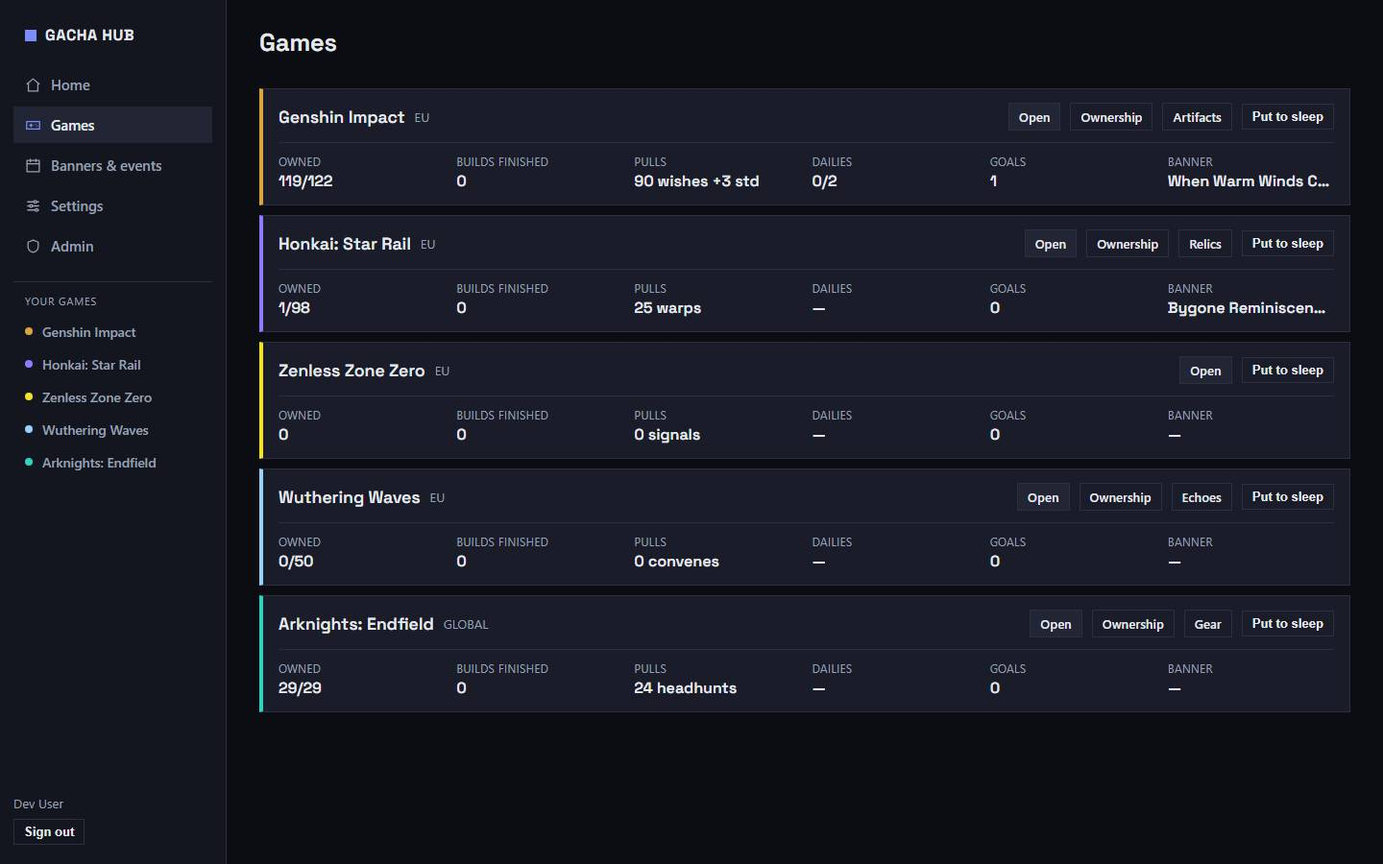
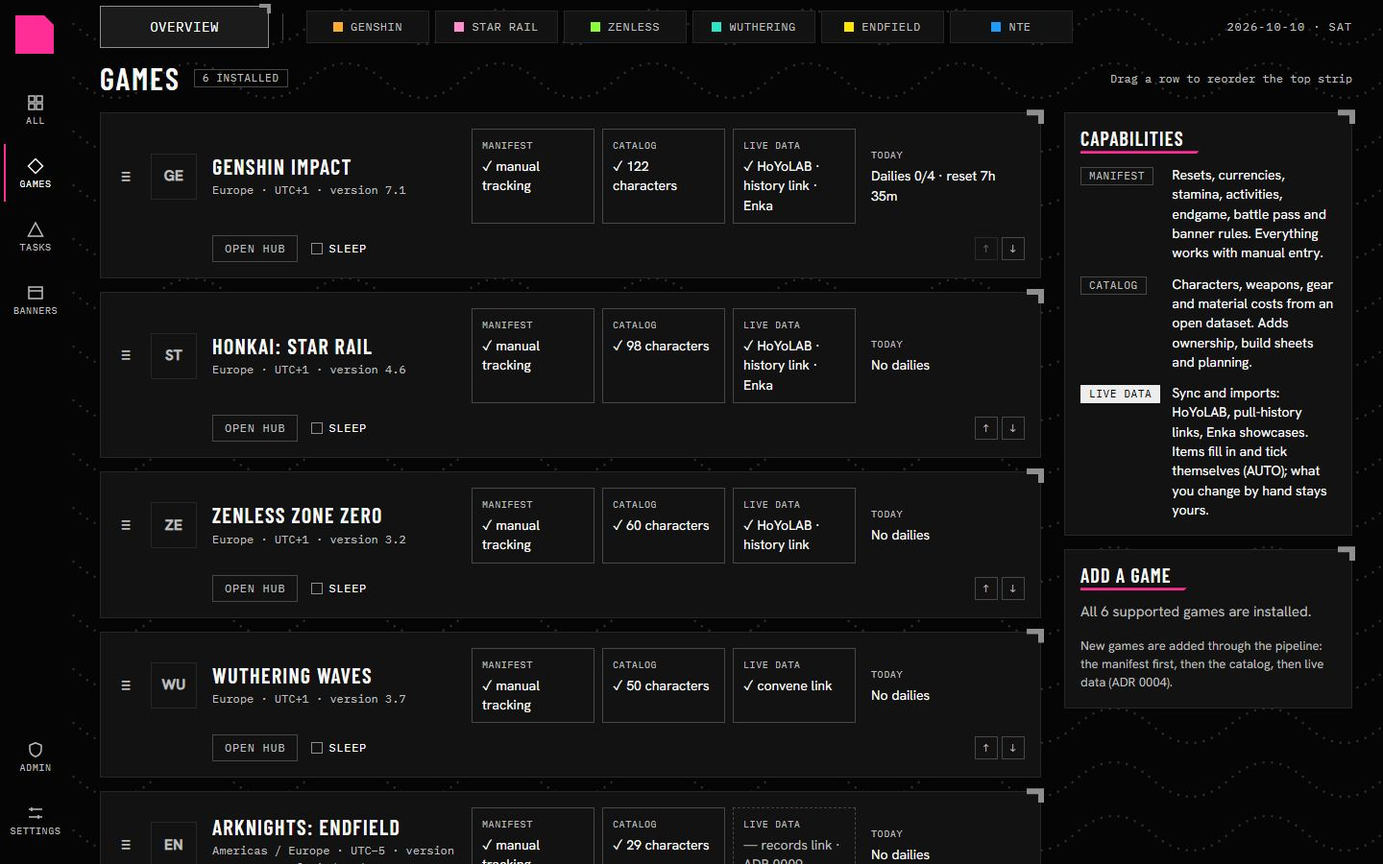
docs(guide): the screen chapter for today's app (#190)
PROJECT-GUIDE §7–8 rewritten for the current screens, with fifteen new screenshots taken with outside images blocked.

Meme: https://github.com/adam-riffi/gacha-hub/pull/190#issuecomment-6101354604

diff --git a/docs/PROJECT-GUIDE.md b/docs/PROJECT-GUIDE.md
@@ -251,172 +251,248 @@ A `PullEntry` is `{bannerType, count, fiveStar?, featured?}`. Pity is the count 
 flowchart TB
   L["Sign-in<br/>/"] --> H["Home<br/>/"]
   H --- G["Games<br/>/library"]
-  H --- C["Banners & events<br/>/timeline"]
+  H --- T["Tasks and reminders<br/>/tasks"]
+  H --- C["Banners and events<br/>/timeline"]
   H --- S["Settings<br/>/settings"]
   H --- AD["Admin<br/>/admin (admins only)"]
-  G --> O["Game page · Overview<br/>/games/:id"]
-  O --- OW["Ownership<br/>/games/:id/ownership"]
-  O --- EQ["Equipment<br/>/games/:id/equipment"]
-  O --- GR["Artifacts / Relics / Echoes / Gear<br/>/games/:id/gear"]
-  O --- MA["Materials<br/>/games/:id/materials"]
-  O --- PU["Pulls<br/>/games/:id/pulls"]
-  O --> CH["Character sheet<br/>/characters/:id"]
-  OW --> CH
+  G --> A["Game hub · Activities<br/>/games/:id"]
+  A --- EG["Endgame<br/>/games/:id/endgame"]
+  A --- PU["Pulls<br/>/games/:id/pulls"]
+  A --- CH["Characters<br/>/games/:id/characters"]
+  A --- GR["Artifacts / Relics / Drive discs / Echoes<br/>/games/:id/gear"]
+  A --- PL["Planner<br/>/games/:id/planner"]
+  A --- PR["Profile<br/>/games/:id/profile"]
+  CH --> SH["Character sheet<br/>/characters/:id"]
 ```
 
-The left sidebar is on every signed-in page: Home, Games, Banners & events, Settings, Admin (hidden from non-admins), then one link per installed game. Which game tabs appear depends on the game (§9): no catalog means only Overview and Pulls; no `pullBanners` means no Pulls tab.
+The rail on the left is on every signed-in page: All (Home), Games, Tasks, Banners, then Admin (admins only) and Settings. The strip across the top scopes Home to one game or all of them, in the order set on the Games page.
+
+The game hub's tabs depend on the game (§9):
+- Pulls needs pull rules.
+- Gear and Planner need a catalog with gear and costs, so Endfield and NTE have neither.
+
+The old routes `/games/:id/overview` and `/games/:id/equipment` redirect to Profile and Characters. `/games/:id/ownership` and `/games/:id/materials` still answer but are no longer tabs.
 
 ## 8. Screen by screen
 
-Screenshots are from the local dev build (dev user, SQLite) on 2026-10-08, 1440×900. Several show test data typed during development (builds named "ok", an "Example Banner").
+The screenshots come from the local dev build (dev user, SQLite) on 2026-10-10, at 1440×900. Images from outside the app are blocked, so cards show their placeholders and no game art sits in the repository (ADR 0006).
 
 ### 8.1 Sign-in
 
-![Sign-in](screens/01-login.jpg)
+![Sign-in](screens/01-sign-in.jpg)
 
-**For:** getting in. One card: the product line ("Track currencies, dailies, and character builds across every gacha you play — and get nudged on Discord before reset") and one button. In production the button is "Sign in with Discord" (OAuth); locally it is "Continue as Dev User" when `DEV_LOGIN_ENABLED=true`. Whitelisting is by Discord account; there is no sign-up.
+**For:** getting in. In production the button is "Sign in with Discord" (OAuth, whitelisted accounts only). Locally, "Continue as Dev User" appears when `DEV_LOGIN_ENABLED=true`. There is no sign-up.
 
 ### 8.2 Home
 
 ![Home](screens/02-home.jpg)
 
-**For:** the one-screen answer to "what should I do today, across all my games?". It is the most important screen.
+**For:** "what should I do today, across my games?" (WIREFRAMES.md H1; VISUAL-DESIGN.md §10). Scope it to one game with the top strip. It holds:
+- **Daily and Weekly rings:** recurring items done this reset.
+- **Goals:** a ring.
+- **Goal types:** character, gear, weapons, gameplay.
+- **Backlog:** a 10-day line.
+- **Pull history:** premium currency gained and spent.
+- **Dailies & weeklies:** one carousel card per game.
+- **Battle pass:** level and time left.
+- **The heat map:** dailies over the last 26 weeks.
+- **Banners now:** a carousel with featured art and "owned" marks.
+- **Pulls:** limited pulls per game, with each banner's pity.
+- **Stamina:** "full at" times.
+- **Endgame · next resets.**
+- **Expiring soon.**
 
-- **KPI strip** (choose which with "Customize"): pulls available across games, dailies done this reset, characters owned (% of catalog), builds finished (good or perfect), goal materials farmed.
-- **Banners now:** one card per running banner across games, with the featured units' art; a green "owned" tag on units you already have. Helps decide whether a banner is worth pulls.
-- **Pulls (right):** limited pulls per game, converted from premium currency plus tickets (Genshin: Primogems ÷ 160 + Intertwined Fates; standard tickets shown apart as "+3 std"). Under each game with a pull log: current pity per banner and "guaranteed" when the next 5★ is the featured one.
-- **Coming up:** banners and events ending soonest, with countdowns; links to the calendar.
-- **Wallet:** every currency per game, collapsed by game.
-- **Today:** per game, the time to the next daily reset, the regenerating stamina bar (Genshin resin shows "full — spend it"), and the unticked dailies as chips you click to tick.
-- **Tasks:** the task board, one column per game: goal tasks ("Farm Venti" with a progress counter, "Farm Faded Theater" with artifact-piece subtasks), filter, Dailies and Backlog toggles, "+ New task".
-
-Data: `GET /api/dashboard` (games, currencies, pulls and pity, banners now, coming up, goals) and `GET /api/tasks`.
+Data: `GET /api/dashboard` and `GET /api/tasks`.
 
 ### 8.3 Games (library)
 
 ![Games](screens/03-games.jpg)
 
-**For:** managing which games you track, and a compact status line per game. One long card per installed game, coloured by the game's accent: region, owned/catalog size, builds finished, pulls (in the game's own word: wishes, warps, signals, convenes, headhunts), dailies done, goals, the current banner. Buttons: Open, Ownership, the game's gear page (Artifacts, Relics, Echoes, Gear) and **Put to sleep** (a sleeping game is hidden from Home and sends no reminders, without losing data; it sorts to the bottom here). "+ Add game" on Home installs a game; installing seeds its default dailies.
+**For:** which games you track, and what each can do (A2). One row per installed game, in the top strip's order: drag a row, or use its arrows, to reorder. Each row holds:
+- server, offset and version;
+- the capability cells: Manifest, Catalog (its size, or why there is none), and Live data (HoYoLAB, history links, Enka, the convene or records link; or why there is none);
+- today's dailies and the reset;
+- Open hub, and Sleep. A sleeping game leaves Home and gets no reminders, without losing data.
 
-### 8.4 Banners & events (calendar)
+The side panel explains the capabilities and lists games to add.
 
-![Calendar](screens/04-calendar.jpg)
+### 8.4 Tasks and reminders
 
-**For:** seeing what is running and what ends soon, across games, on one timeline. A Gantt-style view of four weeks around today (the yellow line), grouped by game; banners are solid bars, events lighter ones, each labelled with its countdown. Banner rows show the featured units' portraits (ringed when owned). Game chips filter; "‹ 2 weeks / Today / 2 weeks ›" pages, including back into ended banners (F7). Hover a row for exact dates. Genshin and HSR rows come from the hourly official-feed import; other games only have what an admin uploads.
+![Tasks](screens/04-tasks.jpg)
 
-Data: `GET /api/timeline?from&to` (window query; banners carry their featured details).
+**For:** what to farm today, every goal, and the reminders (T1).
+- **Farm today:** the game day, and what can be farmed in it (talent books on their weekdays, weekly tasks left).
+- **Goals:**
+  - from Plan farming, from an event reward (with its stages and what it gives when done), or by hand;
+  - each with its progress, priority, Notify and Expand. Expand lists the steps, marked TODAY where farming is possible.
+  - Show backlog adds the completionist goals generated on Profile.
+- **Reminders:** the global rules (before reset, a daily digest, stamina full, endgame, passes, domains), quiet hours, and a preview of the DM with "Send a test DM".
 
-### 8.5 Game page: Overview
+### 8.5 Banners and events (calendar)
 
-![Genshin overview](screens/05-genshin-overview.jpg)
+![Calendar](screens/05-calendar.jpg)
 
-**For:** "what should I do in this game right now?". Tabs at the top move between the game's screens.
+**For:** what runs and what ends soon, across games (C1). It is a timeline of weeks around today, a row per game:
+- banners are solid bars and events lighter ones;
+- the selected item opens beside it: art, dates, rewards and the goal they become;
+- filters cover games, kinds, and "Only what I wishlisted";
+- paging goes back into ended banners.
 
-- **Header:** region picker (sets reset times), owned count, **Restore default tasks**, **Generate backlog** (a "Farm X (max)" goal tree per owned character, everything needed to max it, kept in the Backlog out of the active list), **Uninstall**.
-- **Happening now:** running banners with featured art, then events with time left; "+N more" expands; links to the calendar.
-- **To-do:** dailies as chips, time to reset, active goals.
-- **Domains today** (Genshin only, §9): the talent and weapon domains open on today's *game day* (the server weekday shifted by the 04:00 reset), each with portraits of the owned characters who level from it. "Show all 8" expands.
-- **Currencies:** every currency with its cap; premium currency shows its pull equivalent ("≈ 78 wishes").
-- **Builds:** your builds; "Pick an owned character" + optional build name + "+ Build" adds one (catalog games). Games without a catalog (ZZZ) take a free-text name.
-- **Discord reminders:** on/off; "before daily reset" N minutes; "every day at" chosen times in your time zone; what to include: currencies, dailies left, domains open today (the last only where the game has domains).
-- **Teams:** saved party presets of the game's party size (4 for Genshin, HSR and Endfield, 3 for ZZZ and WuWa).
+Genshin, Star Rail and ZZZ rows come from the hourly official feed; the others come from admin uploads.
 
-The ZZZ overview shows the reduced version for a game without a catalog:
+### 8.6 Game hub · Activities
 
-![ZZZ overview](screens/14-zzz-overview.jpg)
+![Activities](screens/06-activities.jpg)
 
-### 8.6 Ownership
+**For:** a game's day (G1). The hub's header, on every tab, shows:
+- server and UID (masked);
+- account and world level;
+- daily and weekly resets;
+- the version's end;
+- the Edit button.
 
-![Genshin ownership](screens/06-genshin-ownership.jpg)
+Activities holds:
+- **stamina,** with its reserve and "remind me when full";
+- **a card per cadence** (daily, weekly, monthly shops and passes), each with its reset countdown and items to tick or add;
+- **this cycle's endgame** results;
+- **the version:** battle pass and events.
 
-**For:** the fastest possible "which characters (and weapons) do I have?" entry, which drives everything else (Home's "owned" tags, Domains today, Generate backlog). A portrait grid of the whole catalog; click a portrait to toggle owned (check mark, full colour; unowned is greyed). Filters: search, rarity, element, owned/unowned; **Own all shown** and **Clear shown** for bulk entry. Characters/Weapons toggle. Each card links to its build ("Build →") or creates one ("+ Build").
+### 8.7 Endgame
 
-HSR uses the same screen with Yatta art:
+![Endgame](screens/07-endgame.jpg)
 
-![HSR ownership](screens/13-hsr-ownership.jpg)
+**For:** each endgame mode's cycle (G2): this cycle's result (stars, acts, difficulty…) and reward, the next reset, and the history of past cycles. Results come from the HoYoLAB chronicle when linked, or are typed in. Saved teams sit here too.
 
-### 8.7 Equipment
+### 8.8 Pulls
 
-![Genshin equipment](screens/07-genshin-equipment.jpg)
+![Pulls](screens/08-pulls.jpg)
 
-**For:** browsing the weapon catalog (and gear sets) to mark owned weapons and to plan farming for one. Each card shows rarity, weapon type and max level; **Owned** toggles ownership; **Farm / pre-farm** opens the plan for that weapon's ascension materials, so you can pre-farm before a banner. Tabs: Weapons (255) and Gear sets (63).
+**For:** how close the next top pull is, and whether it will be the featured one (G3).
+- **The top cards:**
+  - "Pulls available" converts premium currency and tickets into pulls. Standard and weapon-only tickets are kept apart.
+  - "By the end of the version" forecasts income.
+- **One card per event banner:**
+  - the 50/50 or guaranteed status;
+  - pity against hard pity;
+  - the odds (estimates);
+  - the curve;
+  - your chance with what you have;
+  - the actions: +1, +10, Log a 5★ (6★ in Endfield), Set pity, Undo.
+- **The savings planner** orders the featured targets, worst case or on average.
+- **The history** lists every top pull with its pity.
 
-### 8.8 Gear: Artifacts (Genshin), Relics (HSR), Echoes (WuWa), Gear (Endfield)
+Imports come from Settings.
 
-Every catalog game has a set browser. Genshin has two more modes, because artifacts are the main grind there.
+### 8.9 Characters
 
-**Sets:** every set with its 2-piece and 4-piece bonus, rarity and the domain it drops from; a "used by my builds" filter, and green tags naming which of your builds wear it.
+![Characters](screens/09-characters.jpg)
 
-![Artifact sets](screens/08a-genshin-artifact-sets.jpg)
+**For:** the roster (G4). The filters are element, weapon, rarity, owned, build status, and sort. Characters/Weapons switches between them, and Splash/Compact changes the view.
+- **A splash card shows:**
+  - rarity and element;
+  - the dupe count (C, E, M, S or A in each game's words);
+  - level and talents;
+  - three KPIs chosen by the build's role;
+  - build status, and Build → to the sheet.
+- **Own** and **Wishlist** sit on unowned cards. The wishlist feeds the calendar filter and the savings planner.
 
-**Inventory (Genshin):** the bag of pieces you own: set, slot, main stat, level, substats, crit value (CV); filter by set, slot, bag or equipped; sorted by CV. **Equip on…** puts a bag piece on a build (swapping out what was there); **Unequip** returns it to the bag. Only unequipped pieces live in `GearPiece`; equipped ones live in the build document.
+### 8.10 Character sheet
 
-![Artifact inventory](screens/08b-genshin-artifact-inventory.jpg)
+![Character sheet](screens/10-character-sheet.jpg)
 
-**Plan (Genshin):** groups the farming targets set on each build (4-piece set plus wanted sands, goblet and circlet main stats) by the domain that drops them, shows which wanted pieces you already have (✓) or still need (✗), and **Update task** turns that into a goal task with one subtask per missing piece.
+**For:** one build (G5).
+- **Splash art**, which you can change with Change art.
+- **The KPI tiles:**
+  - each with its target: the build's own, or the game's default, marked "(default)";
+  - the Role picker;
+  - "Make these the game's defaults".
+- **Character:** level, ascension, dupes.
+- **Talents,** with their names, now → target.
+- **Weapon,** picked from the catalog by type.
+- **Combat stats.**
+- **The gear block** in the game's shape:
+  - 5 artifacts, 4 relics + 2 planar ornaments, 6 drive discs, 5 echoes under cost 12, 4 gear + an essence, the Console;
+  - main stats per slot, crit value, and pieces flagged FARM.
+- **Plan farming:** materials have and need, then the goal.
+- **Used in:** the saved teams that hold the character.
 
-![Artifact plan](screens/08c-genshin-artifact-plan.jpg)
+Values from a sync are marked AUTO; what you change stays yours.
 
-### 8.9 Materials
+### 8.11 Gear (Artifacts, Relics, Drive discs, Echoes)
 
-![Materials](screens/09-genshin-materials.jpg)
+![Gear](screens/11-gear.jpg)
 
-**For:** entering what you have, so goals know what is still missing. Grouped by category (Common currency, Local specialty per region, talent books, boss drops…), each row has **Have** (editable), **Needed** (from your goal tasks), **Missing**, and **Days** (the weekdays it can be farmed; "any" when always). "Needed only" hides what no goal uses. Editing "have" here is the same write as ticking progress on a "Farm X" task.
+**For:** set pieces (G6).
+- **Genshin** opens on the artifact inventory: pieces by crit value, add, equip, storage. It also has Sets, and a farming plan for a set and its main stats.
+- **The other games** show their sets, which builds wear them, and Farm.
 
-### 8.10 Pulls
+### 8.12 Planner
 
-![Pulls](screens/10-genshin-pulls.jpg)
+![Planner](screens/12-planner.jpg)
 
-**For:** knowing how close the next 5★ is and whether it is guaranteed to be the featured one. One card per banner type (Genshin: Character event wish 90, Weapon event wish 80, Standard wish 90). Each shows pity / hard pity, a bar, the plain-language outlook ("68 to a certain 5★, and it will be the featured one"), **+1**, **+10** (a ten-pull without a 5★), **Log a 5★** (who, and whether it was the featured unit), **Set pity** (start mid-pity) and **Undo**. The 5★ history lists who dropped at which pity and whether the 50/50 was lost. The Pulls tab exists for Genshin, HSR, ZZZ and WuWa (Endfield has no pull rules yet).
+**For:** what to farm (G7):
+- **Goals**, each with its steps;
+- **Materials** for the goal or for all goals, with have, need and missing;
+- **Farm today**, grouped by domain, where weekdays matter (Genshin).
 
-### 8.11 Character sheet
+Stock edits here are the source of truth for every goal's progress.
 
-**For:** recording a build and planning what it still needs. Every game has its own sheet, because builds differ in kind, not just in labels (§9). Common frame: Back, the build name and game tag, a status (Unbuilt, Building, Good, Perfect; Good and Perfect count as "builds finished"), Save and Delete.
+### 8.13 Profile
 
-**Genshin** (the reference sheet, catalog-backed):
+![Profile](screens/13-profile.jpg)
 
-![Genshin character](screens/11-genshin-character.jpg)
+**For:** the account (G8).
+- **Account:** server, UID, levels.
+- **Wallet:** every currency.
+- **Passes:** battle pass and 30-day pass.
+- **Long-term progress.**
+- **This game's reminders** and the finer reminder options.
+- **Tools:** restore the default tasks; generate the completionist backlog.
+- **Status.**
 
-- Portrait card with art (Enka fallback, or an uploaded image via "Change art"), rarity, element, weapon type, level.
-- Identity: build name, level, element (fixed from the catalog), constellation C0–C6 as icons.
-- Weapon (filtered to the character's weapon type), level, refinement.
-- Talents: Normal Attack, Elemental Skill, Elemental Burst with their icons.
-- Artifacts: five slots, each with set, main stat (only the main stats that slot can roll), level and substats; a **farming target** (4-piece set and wanted sands, goblet and circlet main stats) that the Artifacts → Plan mode reads.
-- Crit summary: CRIT Rate, CRIT DMG and the crit ratio; combat stats (HP, ATK, DEF, crit, EM, ER).
-- **Plan farming:** level cap from → to and talent levels from → to; **Preview** lists the materials, **Generate tasks** creates the goal (see §6). "View on Home" jumps to the board.
-- Reference: constellation and talent text (empty until the catalog import includes it).
+### 8.14 Settings
 
-**HSR** (plain form): Light Cone (name, level, superimposition), six relic slots (head, hands, body, feet, planar sphere, link rope), traces, eidolon, path, element, stats. The build name in the screenshot predates the HTML-stripping fix in #21.
+![Settings](screens/14-settings.jpg)
 
-![HSR character](screens/12-hsr-character.jpg)
+**For:** links, imports, notifications and your data (S1).
+- **Linked accounts:**
+  - HoYoLAB, read-only: notes every 30 minutes, the chronicle and roster on Sync now;
+  - Enka showcases by UID for Genshin, Star Rail and ZZZ;
+  - the Endfield, Wuthering Waves and NTE cards, which say what each allows.
+- **Pull history:** a row per game:
+  - paste the history, convene or records link (used once, never stored);
+  - UIGF files in and out;
+  - the last import.
+- **Notifications:** Discord DMs, quiet hours, digest.
+- **Account and data:** Download my data (every table you entered), and delete the account.
 
-**Endfield** (plain form): Weapon & Essence (an essence attaches to the weapon), four gear slots, combat skill and ultimate, class, potential.
+### 8.15 Admin
 
-![Endfield character](screens/12-endfield-character.jpg)
-
-**ZZZ** (free text, no catalog): W-Engine, drive discs, skills (basic, special, chain…), mindscape. **WuWa**: weapon, echoes (with cost, main stat, sonata set), forte (basic attack, resonance skill, forte circuit, liberation, intro skill), resonance chain.
-
-### 8.12 Settings
-
-![Settings](screens/15-settings.jpg)
-
-Account (username, Discord id, sign out); **Your data → Download my data** (one JSON file with every game, currency, build, ownership, material, gear piece, team, pull, task and reminder you entered; nothing of other users, no secrets); **Discord bot** (how to use `/status`, `/update`, `/done` and reminders; the dev user cannot link the bot).
-
-### 8.13 Admin
-
-![Admin](screens/16-admin.jpg)
+![Admin](screens/15-admin.jpg)
 
 **For:** keeping banners and events correct, for admins only (`ADMIN_DISCORD_IDS`).
 
 - **Import official feed** for the selected game (Genshin, HSR, ZZZ; also runs hourly from the cron).
 - **Seed sample data** (two sample banners and events, to preview the UI; delete them in production once the feed runs).
-- **Upload payload:** paste JSON (kind banners or events, a game, items), **Example** fills a template, **Load current** loads what is live for editing, **Schema** shows the JSON schema, **Validate & apply** upserts by key with precise errors (unknown catalog ids, duplicate keys, field issues).
-- **Current banners/events** with Delete; feed rows have `hoyo-…` keys.
-- **Audit log:** every admin write with actor, action and target.
+- **Upload payload:**
+  - paste JSON: banners or events (with their effects, ADR 0008), a game and the items;
+  - **Example** fills a template, **Load current** loads what is live, and **Schema** shows the JSON schema;
+  - **Validate & apply** upserts by key, with precise errors.
+- **Current banners and events**, with Delete. Feed rows have `hoyo-…` keys.
+- **Audit log:** every admin write, with actor, action and target.
 
-### 8.14 Discord bot (no screen)
+### 8.16 Discord bot (no screen)
 
-Slash commands through HTTP interactions (`POST /api/discord/interactions`, signature-checked): `/status`, `/update` (a currency), `/done` (tick a daily), `/currency`, `/own`, `/build`, `/goal`, `/farm` (materials you still need that are farmable today), `/banner`, `/events`, plus Genshin's `/resin`. Commands are registered with `npm run discord:register -w @gacha/server` once the bot variables are set. The same account links through Discord OAuth, so commands act on the signed-in user's data.
+Slash commands arrive through HTTP interactions (`POST /api/discord/interactions`, signature-checked):
+- `/status`;
+- `/update` (a currency) and `/currency`;
+- `/done` (tick a daily);
+- `/own`, `/build` and `/goal`;
+- `/farm`, the materials you still need that are farmable today;
+- `/banner` and `/events`;
+- Genshin's `/resin`.
+
+Commands are registered with `npm run discord:register -w @gacha/server` once the bot variables are set.
 
 ## 9. Game-specific features
 

diff --git a/docs/AGENT_LOG.md b/docs/AGENT_LOG.md
@@ -14,6 +14,12 @@ Entry format:
 
 ---
 
+## 2026-10-10 · claude · stack/docs/05-screens · #190
+- Done: PROJECT-GUIDE §7 (screen map) and §8 (screen by screen) describe today's app: Home, Games, Tasks and reminders, the calendar, the game hub's tabs (Activities, Endgame, Pulls, Characters, gear, Planner, Profile), the character sheet, Settings, Admin and the bot. The retired Overview, Ownership and Equipment pages are gone from the chapter. Fifteen new screenshots at 1440×900 replace the seventeen from 2026-10-08. They were taken with every image from outside the app blocked, so the cards show placeholders and no game art is committed (ADR 0006).
+- Tests: docs only; every image the guide names exists.
+- Scope/decisions: two stale texts on Profile ("(F11)") are fixed in their own PR.
+- Next: Profile's stale texts, then the sheets' unverified values.
+
 ## 2026-10-10 · claude · stack/vercel/01-function-trace · #105
 - Done: #105 rebased onto `main` (its four code commits replayed; the old log and handoff commit dropped). The Vercel function ships only `api/`, `dist-server/` and `node_modules/`, not the whole repository. `uploads.ts` no longer gives the tracer a path to expand, and `excludeFiles` now leaves out `prisma/**`, any `.env*` and `.claude/**`: the config's `.env` lookup and the `prisma/` walk would otherwise pick up a local secrets file and old worktrees.
 - Tests: `serverless.trace.test.ts`, written first in #105, traces `api/index.mjs` with `@vercel/nft` as Vercel does. It failed on the rebased base with `.env` and a worktree's schema, and passes with the wider exclude. `npm run check` passes: 531 tests and 40 journeys.
@@ -285,9 +291,3 @@ Entry format:
 - Tests: written first: `auth/guards.integration.test.ts` (an admin upload by a non-admin writes no banner or audit row; nothing without a session), waiting a moment after the answer since the stray handler wrote just after it.
 - Scope/decisions: only the two guards answered from a hook; production gets the fix with the next deployment of `main`.
 - Next: Settings (A5) on `stack/f11/05-settings-data`.
-
-## 2026-10-10 · claude · stack/f11/04-history-link · #149
-- Done: shared `readHistoryLink` (only the authkey, its version and a plain region from a pasted link; the host is ignored), `gachaLogUrl` (the game's own official host: Genshin, Star Rail, ZZZ), `readGachaLogPage` (records in UTC from the server's offset; -101 expired, -100 invalid, -110 too frequent); server `fetchHistory` (each tracked banner type paged back to a stored record or an empty page, 300 ms apart, a cursor when 20 s run out) and `POST /api/instances/:id/pulls/history-link` (`{url, next?}`; failures become an `ImportRun` with the error); `importPulls` matches a record named but without an id (Genshin's log) by name, so its 50/50 is read.
-- Tests: written first: `historyLink.test.ts` (the link read whatever its host, the official URL, pages and errors, paging to a stored record, the cursor), `historyLink.integration.test.ts` (imported from the official host only, the 5★ named Mavuika featured, nothing keeps the key, expired recorded, no key, NTE refused).
-- Scope/decisions: Wuthering Waves' convene link is not in this PR (it posts to its own API); fixtures follow the documented shapes until a real response is recorded.
-- Next: Settings (A5) with the pull history import and export, then WuWa's convene link.

diff --git a/docs/agent-log/2026-10.md b/docs/agent-log/2026-10.md
@@ -4,6 +4,12 @@ Entries moved out of `docs/AGENT_LOG.md` to keep it at 40 (`docs/ENGINEERING.md`
 
 ---
 
+## 2026-10-10 · claude · stack/f11/04-history-link · #149
+- Done: shared `readHistoryLink` (only the authkey, its version and a plain region from a pasted link; the host is ignored), `gachaLogUrl` (the game's own official host: Genshin, Star Rail, ZZZ), `readGachaLogPage` (records in UTC from the server's offset; -101 expired, -100 invalid, -110 too frequent); server `fetchHistory` (each tracked banner type paged back to a stored record or an empty page, 300 ms apart, a cursor when 20 s run out) and `POST /api/instances/:id/pulls/history-link` (`{url, next?}`; failures become an `ImportRun` with the error); `importPulls` matches a record named but without an id (Genshin's log) by name, so its 50/50 is read.
+- Tests: written first: `historyLink.test.ts` (the link read whatever its host, the official URL, pages and errors, paging to a stored record, the cursor), `historyLink.integration.test.ts` (imported from the official host only, the 5★ named Mavuika featured, nothing keeps the key, expired recorded, no key, NTE refused).
+- Scope/decisions: Wuthering Waves' convene link is not in this PR (it posts to its own API); fixtures follow the documented shapes until a real response is recorded.
+- Next: Settings (A5) with the pull history import and export, then WuWa's convene link.
+
 ## 2026-10-10 · claude · stack/f11/03-uigf · #148
 - Done: shared `parseUigf` (UIGF v4.x: the game's section, times from the account's timezone to UTC, `rank_type` required) and `toUigf` (v4.2, times at the profile server's offset, `uigf_gacha_type` for Genshin alone); `PullEntry.record` (gacha type, item, rank; migration `20261011060000_pull_record_json`) so imported pulls export again; `POST /api/instances/:id/pulls/uigf` (4 MB cap; the profile's UID or `?uid=` picks the account, a lone account fits a profile without one and sets its UID; another account's file is refused) and `GET` the same as an attachment. PROJECT-GUIDE's API map lists them and the link routes.
 - Tests: written first: `uigf.test.ts` (accounts and times, refusals, written back and read the same), `uigf.integration.test.ts` (import and its run, pick_uid, the UID choosing, uid_mismatch, no account for the game, export that re-imports with nothing new).
